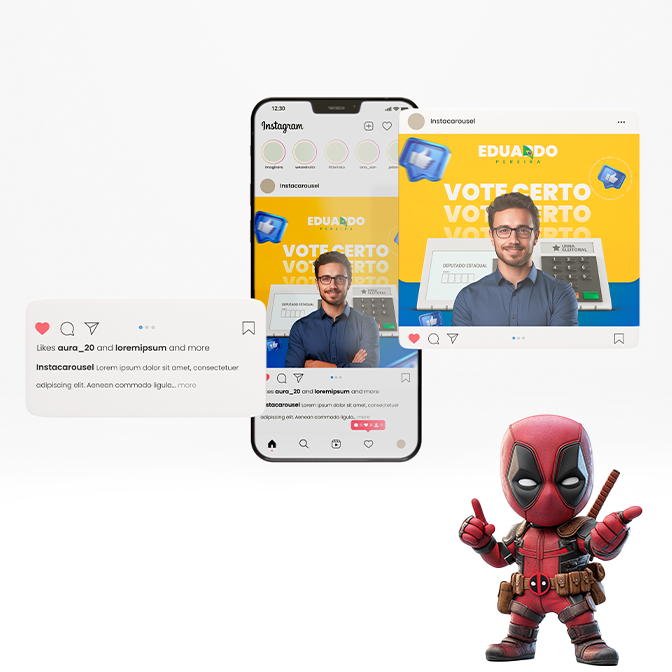
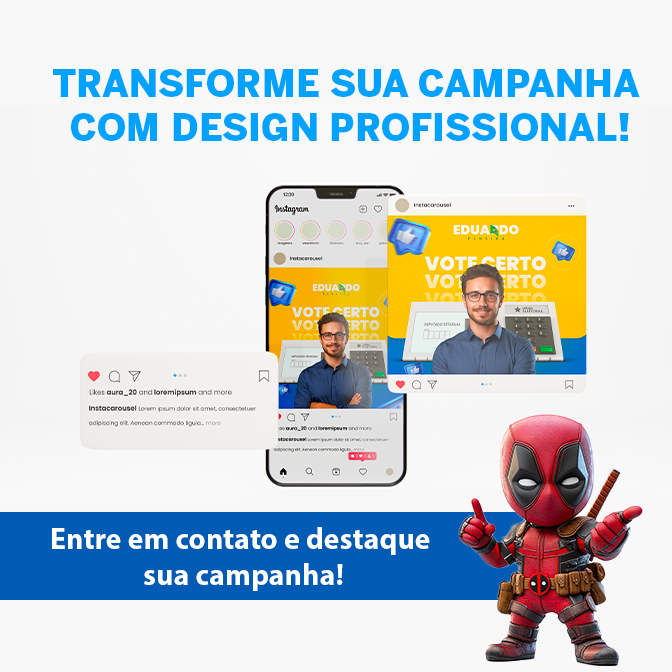
Texto alterado

diff --git a/src/components/TweetTwo.tsx b/src/components/TweetTwo.tsx
@@ -13,26 +13,12 @@ export function TweetTwo() {
           <strong>Felipe Neneu</strong>
           <span>@Cto</span>
         </div>
-        <h2 className='typing-animation'>Potencialize Sua Campanha</h2>
-        <h3>com Materiais Políticos Digitais!</h3>
+        <h2 >Posts e Motions para Engajar Eleitores!</h2>
         <br />
 
-        <p>Em uma campanha política, a presença digital é fundamental para engajar e convencer eleitores.
-          Oferecemos serviços especializados em criação de <strong>motion graphics</strong> e <strong>posts para redes sociais</strong>,
-          todos projetados para fortalecer a imagem do seu candidato e comunicar suas propostas de forma eficaz.</p>
+        <p>💡 Transforme sua campanha com design profissional! Posts e motions que engajam e fortalecem sua mensagem. Entre em contato e destaque-se!</p>
 
-        <br />
-        <h3>Motion Graphics</h3>
-        <p>Animações dinâmicas e impactantes que dão vida às ideias da campanha, perfeitas para destacar nas redes sociais e atrair a atenção dos eleitores.</p>
-        <br />
-        <h3>Posts Personalizados</h3>
 
-        <p>Criação de artes visuais para posts em redes sociais, alinhadas à identidade visual da campanha, destacando propostas, eventos e mensagens importantes.</p>
-        <br />
-        <strong>💡 Por que Escolher Nossos Serviços?</strong>
-        <li>Design focado em resultados, alinhado com os objetivos da sua campanha.</li>
-        <li>Entrega rápida e suporte dedicado durante todo o processo.</li>
-        <li>Materiais que se destacam e ajudam a conquistar votos.</li>
         <br />
         <img className='post' src={imagem2} alt="" />
 

diff --git a/src/components/TweetTwo.css b/src/components/TweetTwo.css
@@ -48,7 +48,7 @@
 
 }
 
-.typing-animation {
+.typing-animation-um {
   font-family: Arial, sans-serif;
   font-size: 2em;
   color: #333;
